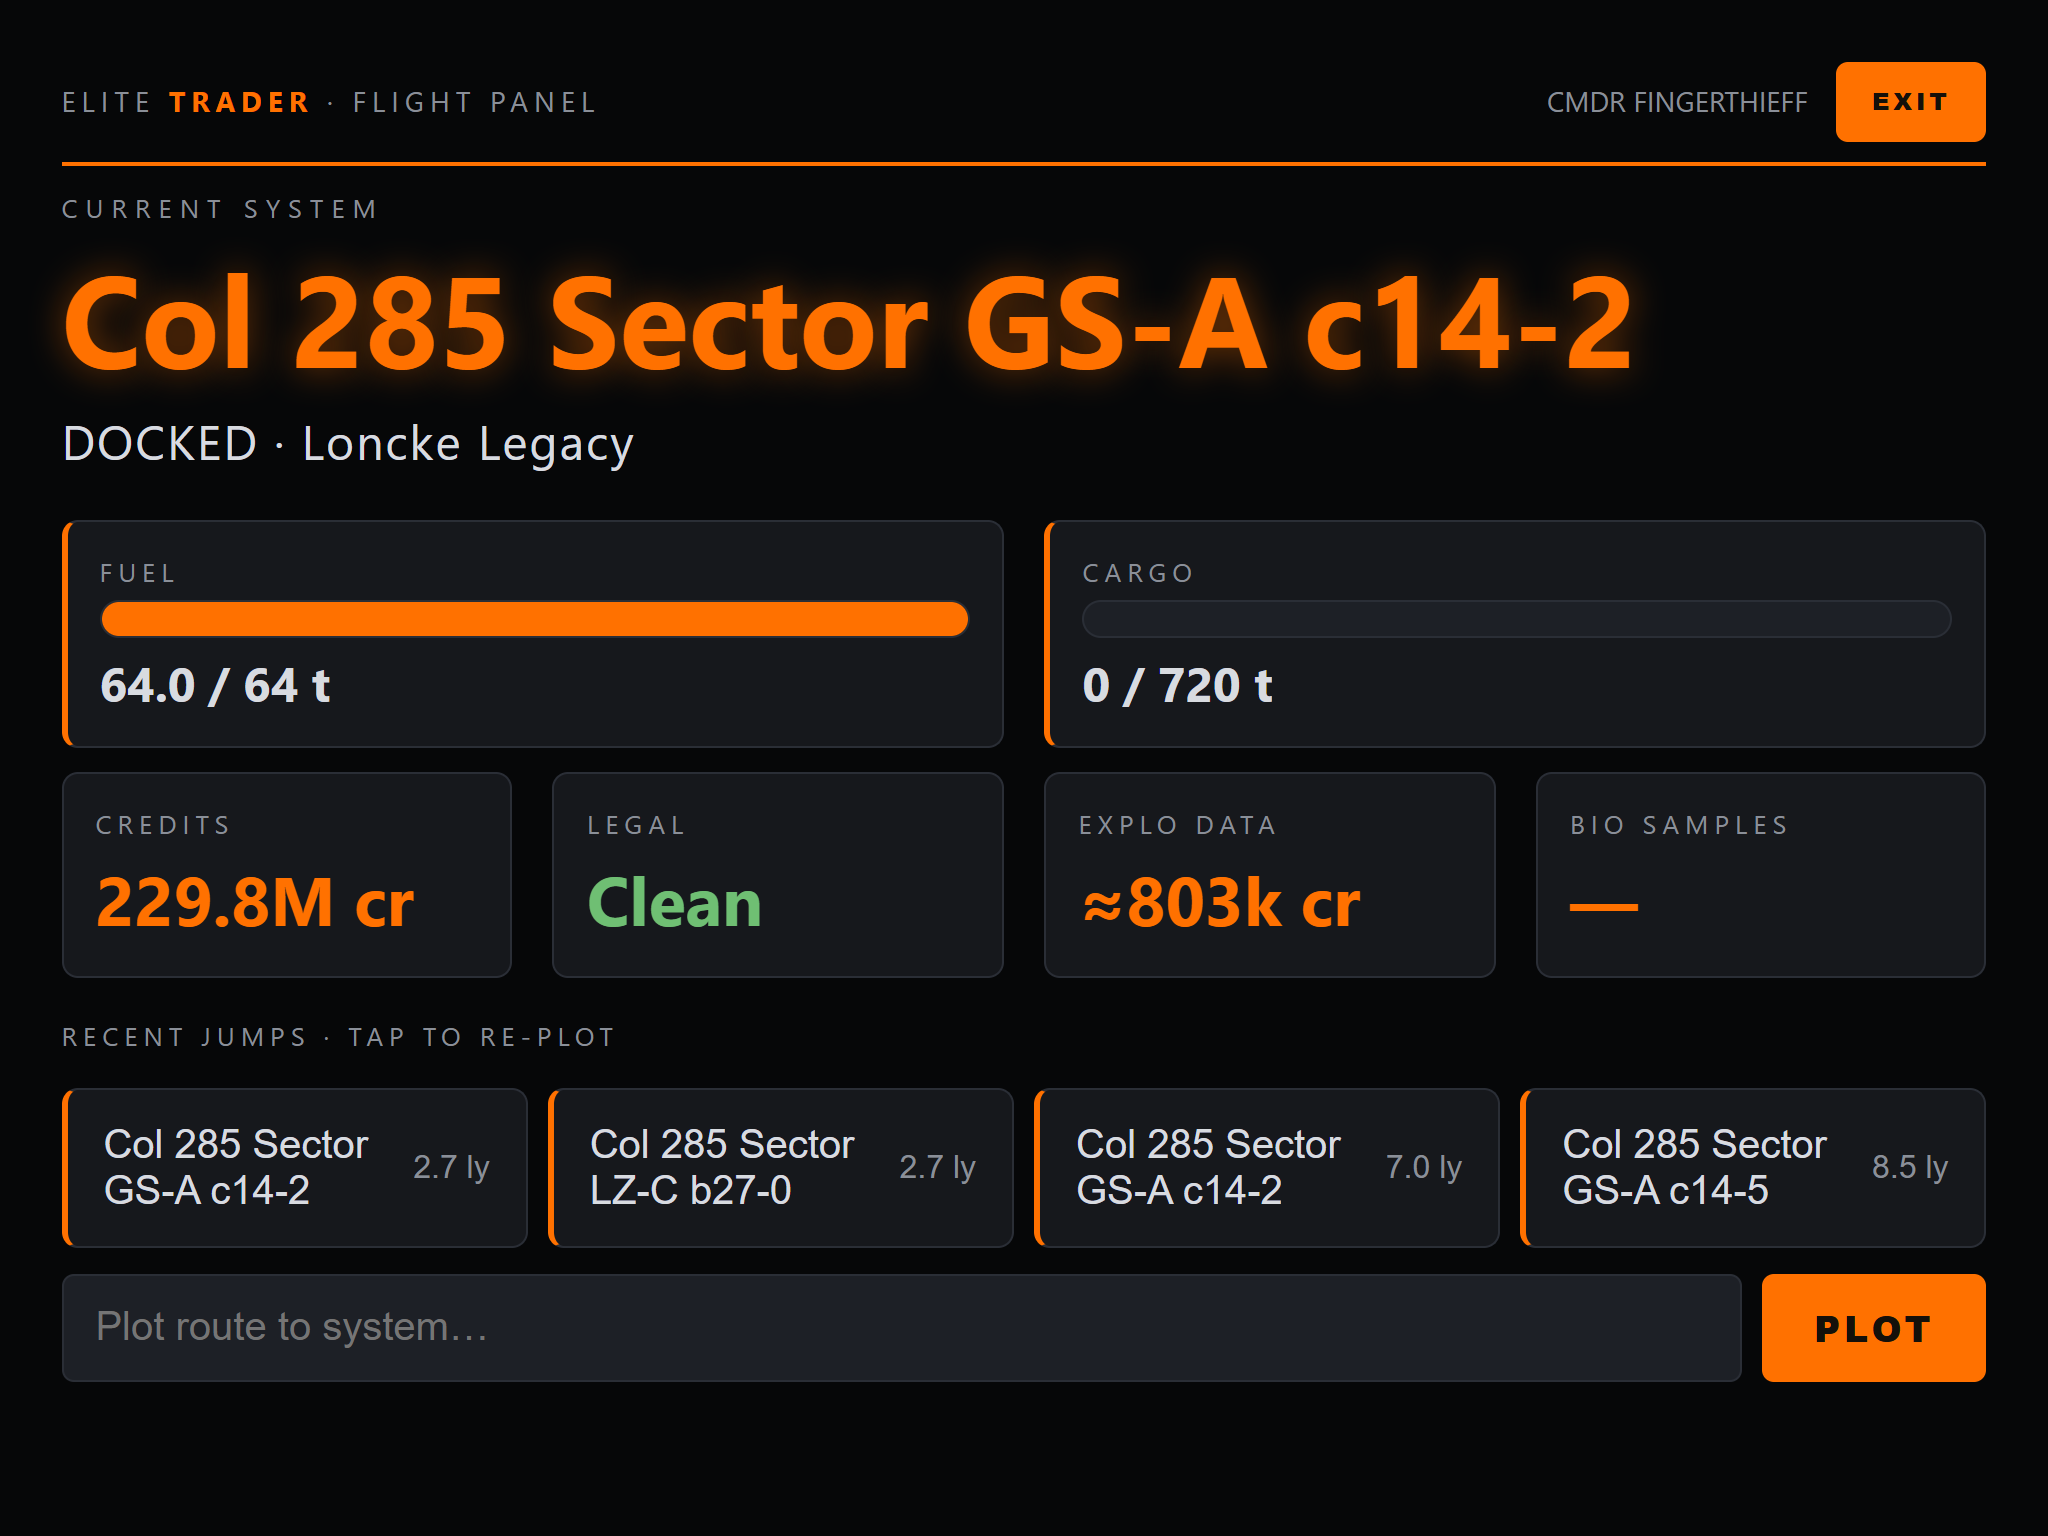
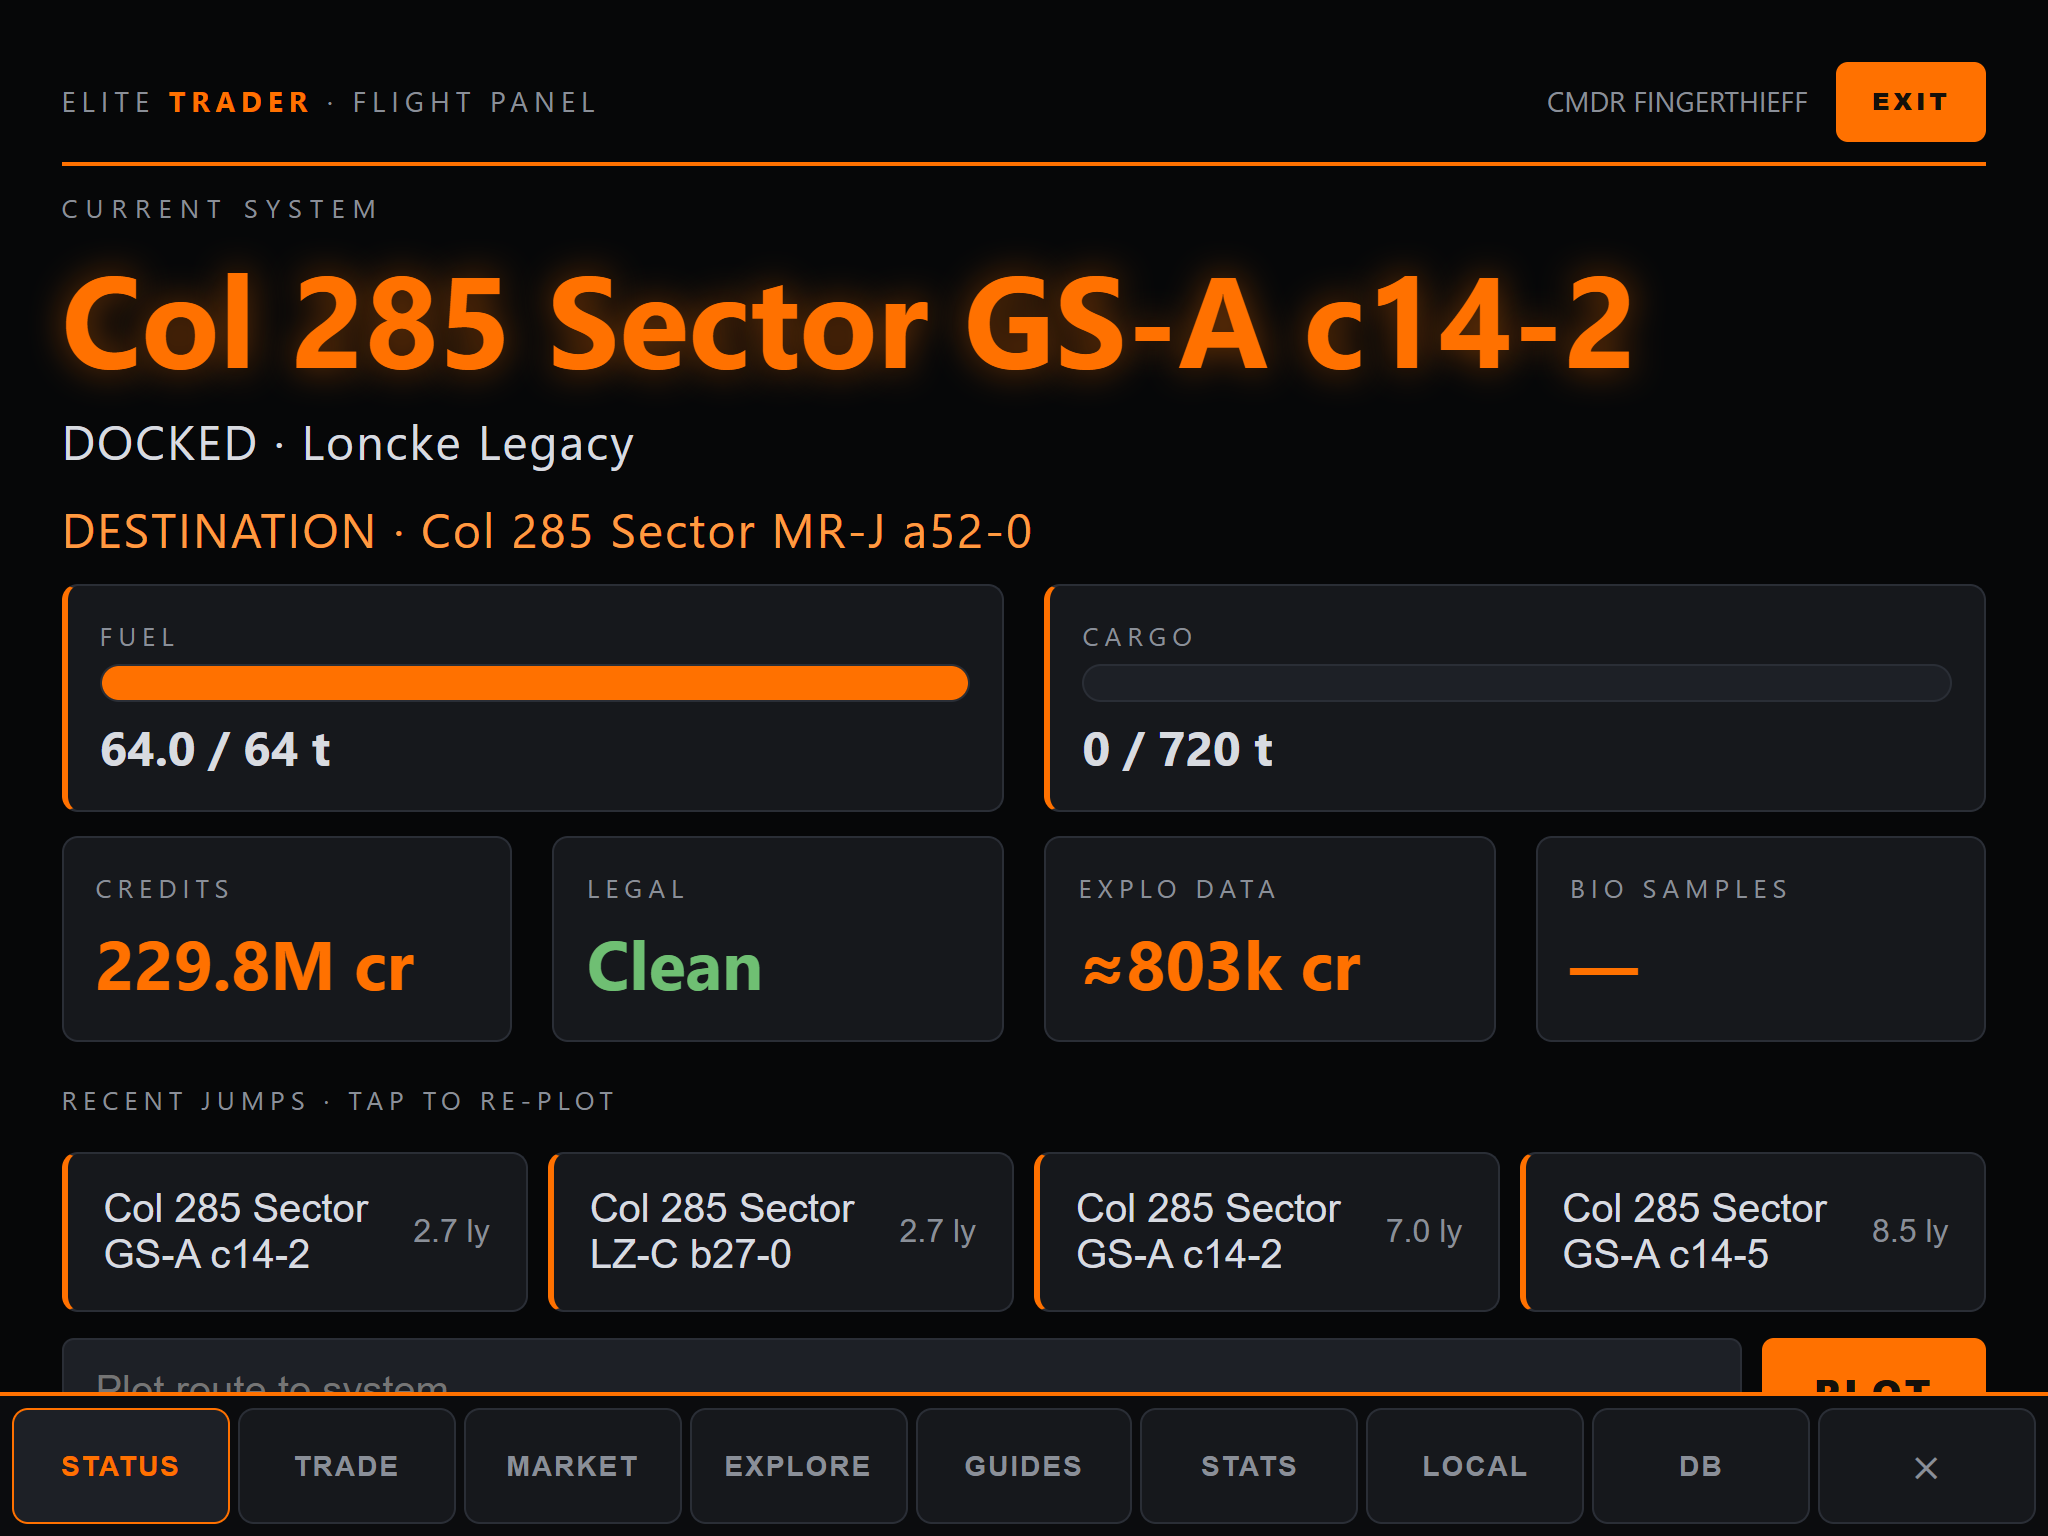
Flight panel: full app access via bottom touch nav + swipe
The panel is no longer status-only. A fixed bottom touch bar (Status /
Trade / Market / Explore / Guides / Stats / Local / DB / exit) and
left-right swiping move between pages; non-status pages reuse the
standard tabs rescaled for touch (54px buttons, 48px inputs, bigger
tables) so every feature has full parity in panel mode. Swipes inside
horizontally scrollable tables are ignored; active page persists per
device. Status screenshot refreshed with the nav bar.

diff --git a/ui/app.js b/ui/app.js
@@ -83,9 +83,10 @@ async function plotSystem(system) {
 
 /* ---------- flight panel mode ---------- */
 
+const PANEL_PAGES = ["status", "trade", "commodities", "bio", "guides", "analytics", "local", "database"];
+
 function setPanelMode(on) {
   document.body.classList.toggle("panel-mode", on);
-  $("flight-panel").classList.toggle("hidden", !on);
   localStorage.setItem("panelMode", on ? "1" : "0");
   try {
     if (on && document.documentElement.requestFullscreen) {
@@ -94,7 +95,54 @@ function setPanelMode(on) {
       document.exitFullscreen();
     }
   } catch (e) { /* fullscreen is a nicety, not a requirement */ }
-  if (on && state) renderPanel();
+  if (on) {
+    setPanelPage(localStorage.getItem("panelPage") || "status");
+  } else {
+    $("flight-panel").classList.add("hidden");
+  }
+}
+
+function setPanelPage(name) {
+  if (!PANEL_PAGES.includes(name)) name = "status";
+  localStorage.setItem("panelPage", name);
+  const statusPage = name === "status";
+  $("flight-panel").classList.toggle("hidden", !statusPage);
+  document.body.classList.toggle("fp-status-page", statusPage);
+  if (!statusPage) activateTab(name);
+  document.querySelectorAll("#fp-nav button").forEach((b) =>
+    b.classList.toggle("active", b.dataset.page === name));
+  if (statusPage && state) renderPanel();
+  window.scrollTo(0, 0);
+}
+
+function panelSwipe(dx) {
+  const current = localStorage.getItem("panelPage") || "status";
+  const idx = PANEL_PAGES.indexOf(current);
+  const next = PANEL_PAGES[(idx + (dx < 0 ? 1 : PANEL_PAGES.length - 1)) % PANEL_PAGES.length];
+  setPanelPage(next);
+}
+
+function initPanelNav() {
+  document.querySelectorAll("#fp-nav button").forEach((b) =>
+    b.addEventListener("click", () => {
+      if (b.dataset.page === "__exit") setPanelMode(false);
+      else setPanelPage(b.dataset.page);
+    }));
+  // Swipe left/right anywhere (except inside horizontally scrollable tables)
+  let touchX = null, touchY = null;
+  document.addEventListener("touchstart", (ev) => {
+    if (!document.body.classList.contains("panel-mode")) return;
+    if (ev.target.closest(".table-wrap")) { touchX = null; return; }
+    touchX = ev.touches[0].clientX;
+    touchY = ev.touches[0].clientY;
+  }, { passive: true });
+  document.addEventListener("touchend", (ev) => {
+    if (touchX === null || !document.body.classList.contains("panel-mode")) return;
+    const dx = ev.changedTouches[0].clientX - touchX;
+    const dy = ev.changedTouches[0].clientY - touchY;
+    touchX = null;
+    if (Math.abs(dx) > 70 && Math.abs(dy) < 60) panelSwipe(dx);
+  }, { passive: true });
 }
 
 function renderPanel() {
@@ -1256,18 +1304,20 @@ async function poll() {
   setTimeout(poll, 1500);
 }
 
+function activateTab(name) {
+  document.querySelectorAll("#tabs .tab").forEach((b) =>
+    b.classList.toggle("active", b.dataset.tab === name));
+  document.querySelectorAll(".tabpane").forEach((p) =>
+    p.classList.toggle("hidden", p.id !== "tab-" + name));
+  localStorage.setItem("activeTab", name);
+  if (name === "analytics") loadAnalytics();
+}
+
 function initTabs() {
-  const buttons = document.querySelectorAll("#tabs .tab");
-  const activate = (name) => {
-    buttons.forEach((b) => b.classList.toggle("active", b.dataset.tab === name));
-    document.querySelectorAll(".tabpane").forEach((p) =>
-      p.classList.toggle("hidden", p.id !== "tab-" + name));
-    localStorage.setItem("activeTab", name);
-    if (name === "analytics") loadAnalytics();
-  };
-  buttons.forEach((b) => b.addEventListener("click", () => activate(b.dataset.tab)));
+  document.querySelectorAll("#tabs .tab").forEach((b) =>
+    b.addEventListener("click", () => activateTab(b.dataset.tab)));
   const saved = localStorage.getItem("activeTab");
-  if (saved && document.getElementById("tab-" + saved)) activate(saved);
+  if (saved && document.getElementById("tab-" + saved)) activateTab(saved);
 }
 
 document.addEventListener("DOMContentLoaded", () => {
@@ -1321,6 +1371,7 @@ document.addEventListener("DOMContentLoaded", () => {
   });
 
   // Flight panel mode (tablet as a cockpit display)
+  initPanelNav();
   $("panel-toggle").addEventListener("click", () => setPanelMode(true));
   $("panel-exit").addEventListener("click", () => setPanelMode(false));
   $("fp-plot-form").addEventListener("submit", (ev) => {

diff --git a/ui/style.css b/ui/style.css
@@ -384,13 +384,62 @@ footer {
 
 /* ---------- flight panel mode (tablet cockpit display) ---------- */
 body.panel-mode .topbar,
-body.panel-mode main,
-body.panel-mode footer { display: none; }
+body.panel-mode footer,
+body.panel-mode .tabs { display: none; }
+body.panel-mode.fp-status-page main { display: none; }
 body.panel-mode { background: #060708; }
+
+/* Bottom touch nav: every standard tab is reachable in panel mode */
+#fp-nav { display: none; }
+body.panel-mode #fp-nav {
+  display: flex;
+  position: fixed;
+  bottom: 0;
+  left: 0;
+  right: 0;
+  z-index: 30;
+  background: #0b0c0e;
+  border-top: 2px solid var(--orange);
+  padding: 6px 6px calc(6px + env(safe-area-inset-bottom, 0px));
+  gap: 4px;
+}
+#fp-nav button {
+  flex: 1;
+  min-height: 58px;
+  background: var(--panel);
+  border: 1px solid var(--border);
+  border-radius: 8px;
+  color: var(--dim);
+  font-size: clamp(10px, 1.7vw, 14px);
+  font-weight: 700;
+  letter-spacing: 1px;
+  cursor: pointer;
+  touch-action: manipulation;
+}
+#fp-nav button.active { color: var(--orange); border-color: var(--orange); background: var(--panel-2); }
+#fp-nav button:active { background: var(--panel-2); }
+
+/* Touch-friendly scaling for the standard tabs while in panel mode */
+body.panel-mode main {
+  padding-bottom: 96px;
+  max-width: none;
+  font-size: 16px;
+}
+body.panel-mode button.primary { min-height: 54px; font-size: 15px; padding: 12px 22px; }
+body.panel-mode .route-form input,
+body.panel-mode .route-form select,
+body.panel-mode .plot-form input,
+body.panel-mode #market-filter { min-height: 48px; font-size: 16px; }
+body.panel-mode .copy,
+body.panel-mode .plotbtn { min-width: 46px; min-height: 46px; font-size: 17px; }
+body.panel-mode th, body.panel-mode td { padding: 10px 10px; font-size: 15px; }
+body.panel-mode .linkrow a { padding: 12px 18px; font-size: 14px; }
+body.panel-mode .jumps li, body.panel-mode .cargo-list li { padding: 11px 4px; font-size: 15px; }
 
 #flight-panel {
   min-height: 100vh;
   padding: clamp(12px, 3vw, 32px);
+  padding-bottom: 96px;
   display: flex;
   flex-direction: column;
   gap: clamp(8px, 1.6vh, 18px);

diff --git a/ui/index.html b/ui/index.html
@@ -61,6 +61,18 @@
   <div id="fp-plot-status" class="fp-sub fp-status"></div>
 </div>
 
+<nav id="fp-nav">
+  <button data-page="status" class="active">STATUS</button>
+  <button data-page="trade">TRADE</button>
+  <button data-page="commodities">MARKET</button>
+  <button data-page="bio">EXPLORE</button>
+  <button data-page="guides">GUIDES</button>
+  <button data-page="analytics">STATS</button>
+  <button data-page="local">LOCAL</button>
+  <button data-page="database">DB</button>
+  <button data-page="__exit">✕</button>
+</nav>
+
 <main>
   <section class="card location">
     <div class="loc-main">

diff --git a/README.md b/README.md
@@ -105,8 +105,11 @@ you're carrying with their estimated Vista Genomics payout. First footfall pays
 Tap **◈ PANEL** and the whole UI transforms into a touch-first, Elite-themed
 cockpit display for a tablet mounted at your flight station: glowing system
 readout, fuel and cargo gauges, credits/legal/exploration tiles, recent jumps as
-big tap-to-replot buttons and a one-line route plotter. Goes fullscreen where
-the browser allows; remembers the mode per device.
+big tap-to-replot buttons and a one-line route plotter. **Everything from the
+standard mode is still there** — a fixed bottom touch bar (or swiping left/right)
+moves between Status, Trade, Market, Explore, Guides, Stats, Local and Database
+pages, all rescaled for fingers. Goes fullscreen where the browser allows;
+remembers the mode and page per device.
 
 <div align="center"><img src="docs/screenshots/flight-panel.png" alt="Flight panel mode on a tablet" width="700"></div>
 